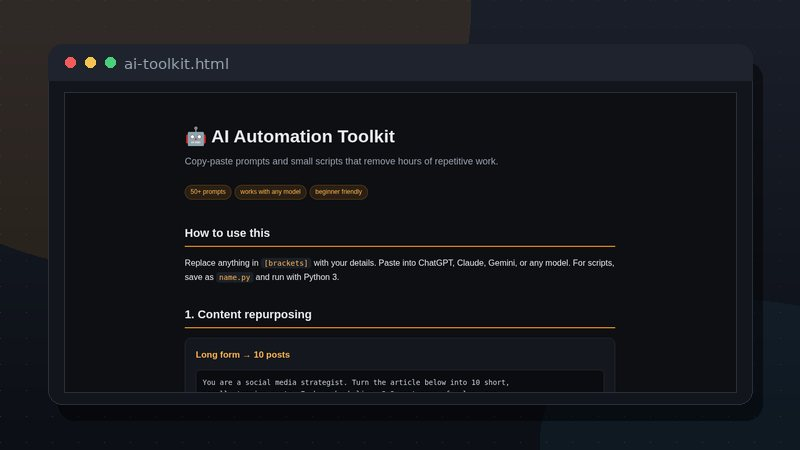
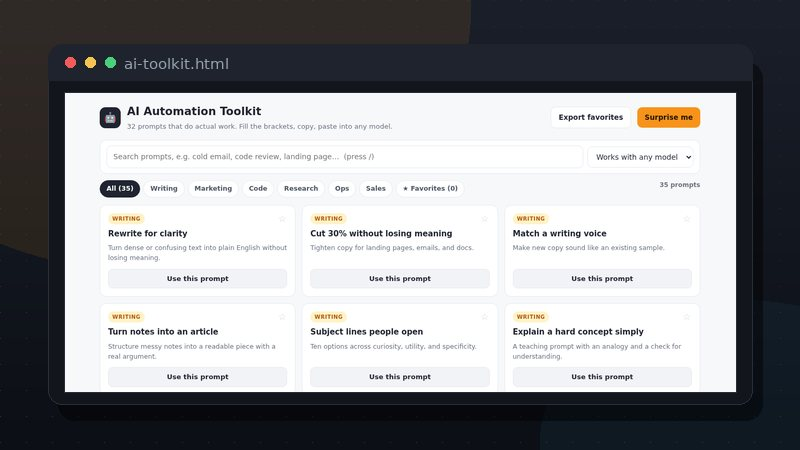
Rebuild storefront starter kit as a real ZIP, rebuild AI toolkit
- Starter kit now ships 15 working files: store, checkout, QR, verification, README, samples
- Added optional Cloudflare Worker verifier
- AI toolkit is a 35-prompt library with search, fill-in fields, favorites, export
- New covers and preview screenshots for both

diff --git a/assets/products.js b/assets/products.js
@@ -29,34 +29,37 @@ window.PRODUCTS = [
     "id": "starter-kit",
     "category": "Crypto-Web3",
     "name": "Bitcoin Storefront Starter Kit",
-    "tagline": "The exact code running this store. Yours to deploy.",
+    "tagline": "A complete Bitcoin storefront you can deploy this afternoon.",
     "priceUsd": 18.99,
     "emoji": "\ud83d\uded2",
-    "file": "products/bitcoin-storefront-starter-kit.html",
-    "summary": "A working, dependency-free static storefront with live BTC pricing, QR checkout, on-chain payment verification, and instant digital delivery. Drop it on GitHub Pages in 5 minutes.",
+    "file": "products/bitcoin-storefront-starter-kit.zip",
+    "summary": "A real store, not a template mockup: product grid, live BTC pricing, QR checkout, on-chain payment verification and gated downloads. Plain HTML, CSS and JavaScript with no build step and no backend, plus an optional Cloudflare Worker for server-side checks.",
     "bullets": [
-      "Plain HTML/CSS/JS \u2014 no build step",
-      "Live BTC price conversion",
-      "QR + bitcoin: URI checkout",
-      "On-chain txid verification (mempool.space)",
-      "Free hosting instructions included"
+      "Complete storefront: grid, product pages, checkout, downloads",
+      "Live BTC price, QR code, bitcoin: link with the exact amount",
+      "Payment verified against mempool.space before the file unlocks",
+      "Optional Cloudflare Worker for server-side verification",
+      "Demo mode to test the whole flow before going live",
+      "15 files, no framework, no build step, deploy free",
+      "README covers setup, deployment, customization and security"
     ]
   },
   {
     "id": "ai-toolkit",
     "category": "Tech-Code-AI",
     "name": "AI Automation Toolkit",
-    "tagline": "Scripts + prompt templates that save hours every week.",
+    "tagline": "35 prompts that do actual work. Search, fill, copy.",
     "priceUsd": 11.99,
     "emoji": "\ud83e\udd16",
     "file": "products/ai-automation-toolkit.html",
-    "summary": "A curated pack of copy-paste prompts and small scripts for automating repetitive work: writing, research, data cleanup, and content pipelines.",
+    "summary": "A working prompt library, not a PDF: 35 prompts across writing, marketing, code, research, ops and sales. Fill the brackets and the page builds the finished prompt for you. Star the ones you use and export them as Markdown.",
     "bullets": [
-      "50+ battle-tested prompt templates",
-      "Content repurposing pipeline",
-      "Data cleanup scripts",
-      "Outreach + lead-gen templates",
-      "Works with any major AI model"
+      "35 prompts across 6 categories, each with a job",
+      "Fill-in fields build the final prompt for you",
+      "Search, category filters and favorites",
+      "One-click copy, Markdown export of favorites",
+      "Works with any model, no API key needed",
+      "Offline single file, favorites saved in the browser"
     ]
   },
   {

diff --git a/previews/starter-kit.html b/previews/starter-kit.html
@@ -64,11 +64,11 @@
   <div class="phead">
     <span class="kicker">Preview &middot; Crypto Web3</span>
     <h1>Bitcoin Storefront Starter Kit</h1>
-    <p class="sub">The exact code running this store. Yours to deploy.</p>
-    <div class="pmeta"><span class="pill">HTML · browser app</span><span class="price">$18.99 <small style="font-size:12px;color:var(--muted);font-weight:500">one-time</small></span></div>
+    <p class="sub">A complete Bitcoin storefront you can deploy this afternoon.</p>
+    <div class="pmeta"><span class="pill">ZIP · 15 files · HTML/CSS/JS</span><span class="price">$18.99 <small style="font-size:12px;color:var(--muted);font-weight:500">one-time</small></span></div>
   </div>
   <div class="stage" id="stage">
-    <div class="shotframe"><img class="shot" src="img/starter-kit.png" alt="Bitcoin Storefront Starter Kit preview" loading="eager"></div><p class="muted small">A live, interactive version runs in your browser after purchase — no install needed.</p>
+    <div class="shotframe"><img class="shot" src="img/starter-kit.png" alt="Bitcoin Storefront Starter Kit preview" loading="eager"></div><p class="muted small">Screenshot of the included storefront. You get the full source as a ZIP: store pages, checkout, QR code library, README and three working sample products.</p>
     <div class="wm">PREVIEW</div>
   </div>
   <div class="plock" id="lock" hidden>

diff --git a/category-crypto-web3.html b/category-crypto-web3.html
@@ -142,8 +142,8 @@
         </div>
         <div class="body">
           <h3>Bitcoin Storefront Starter Kit</h3>
-          <p class="tag">The exact code running this store. Yours to deploy.</p>
-          <ul class="ticks"><li>Plain HTML/CSS/JS — no build step</li><li>Live BTC price conversion</li><li>QR + bitcoin: URI checkout</li><li>On-chain txid verification (mempool.space)</li></ul>
+          <p class="tag">A complete Bitcoin storefront you can deploy this afternoon.</p>
+          <ul class="ticks"><li>Complete storefront: grid, product pages, checkout, downloads</li><li>Live BTC price, QR code, bitcoin: link with the exact amount</li><li>Payment verified against mempool.space before the file unlocks</li><li>Optional Cloudflare Worker for server-side verification</li></ul>
           <div class="foot">
             <div class="price">$18.99<small>USD &middot; one-time</small></div>
             <div class="cardbtns">

diff --git a/category-tech-code-ai.html b/category-tech-code-ai.html
@@ -180,8 +180,8 @@
         </div>
         <div class="body">
           <h3>AI Automation Toolkit</h3>
-          <p class="tag">Scripts + prompt templates that save hours every week.</p>
-          <ul class="ticks"><li>50+ battle-tested prompt templates</li><li>Content repurposing pipeline</li><li>Data cleanup scripts</li><li>Outreach + lead-gen templates</li></ul>
+          <p class="tag">35 prompts that do actual work. Search, fill, copy.</p>
+          <ul class="ticks"><li>35 prompts across 6 categories, each with a job</li><li>Fill-in fields build the final prompt for you</li><li>Search, category filters and favorites</li><li>One-click copy, Markdown export of favorites</li></ul>
           <div class="foot">
             <div class="price">$11.99<small>USD &middot; one-time</small></div>
             <div class="cardbtns">
